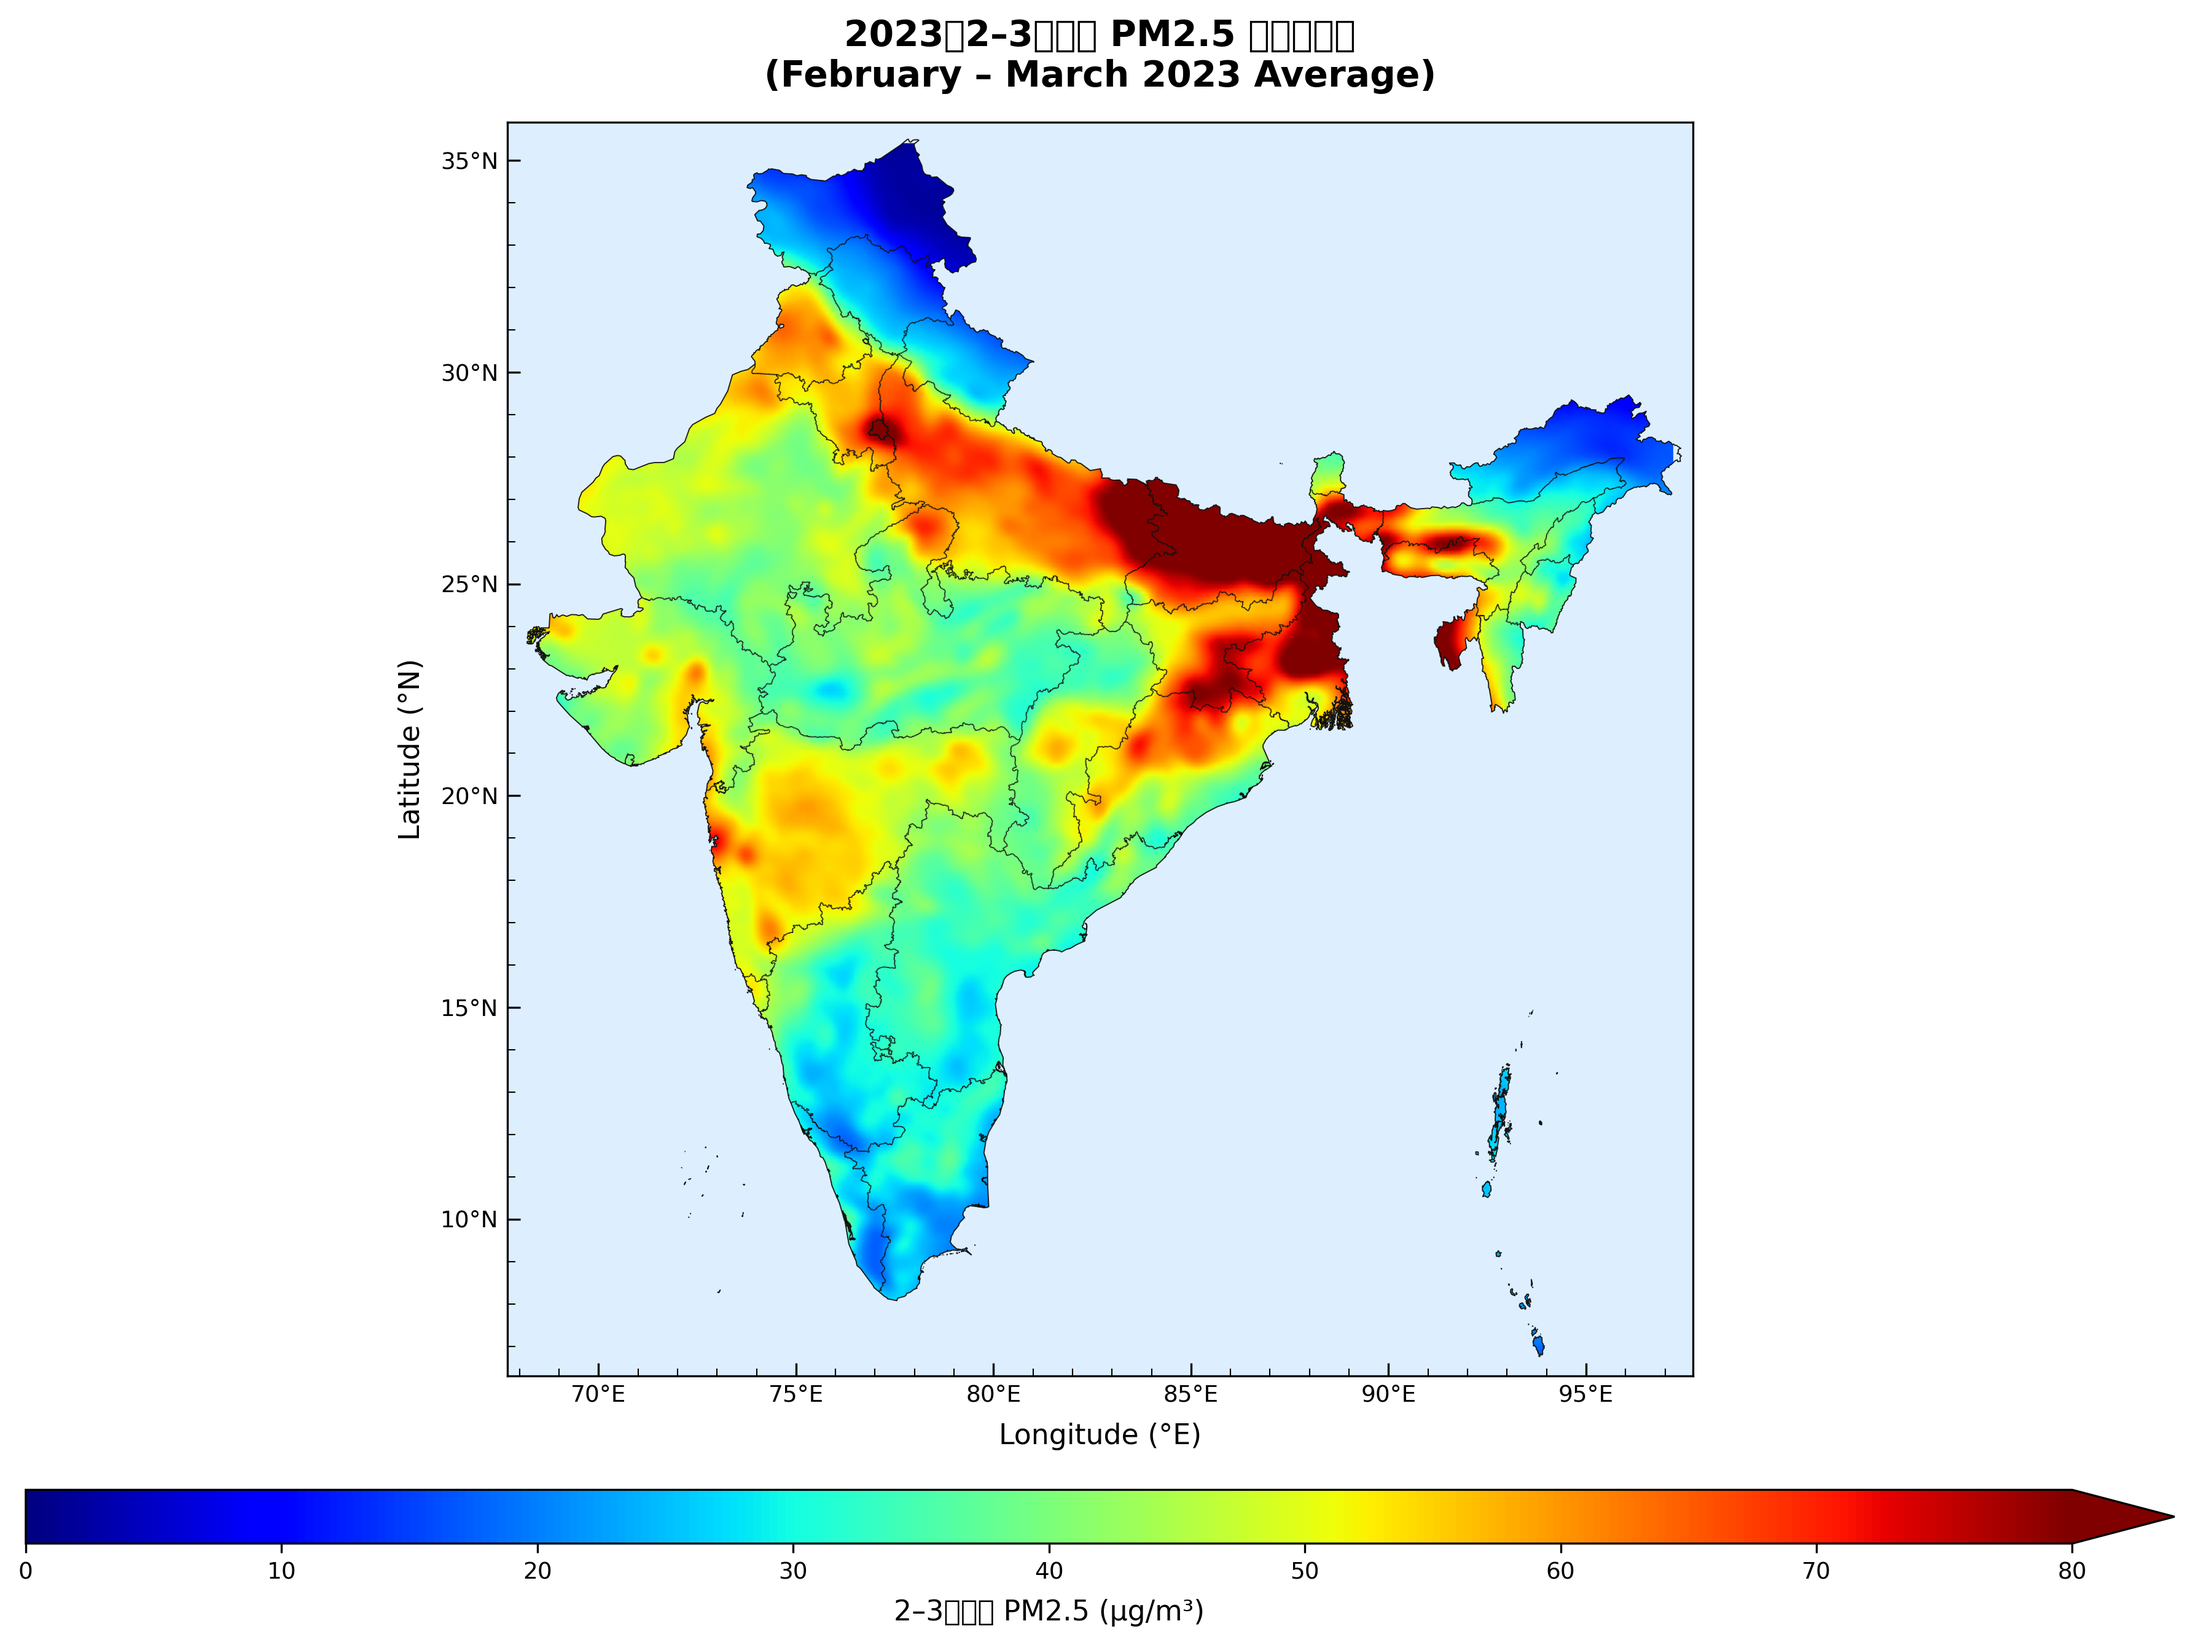
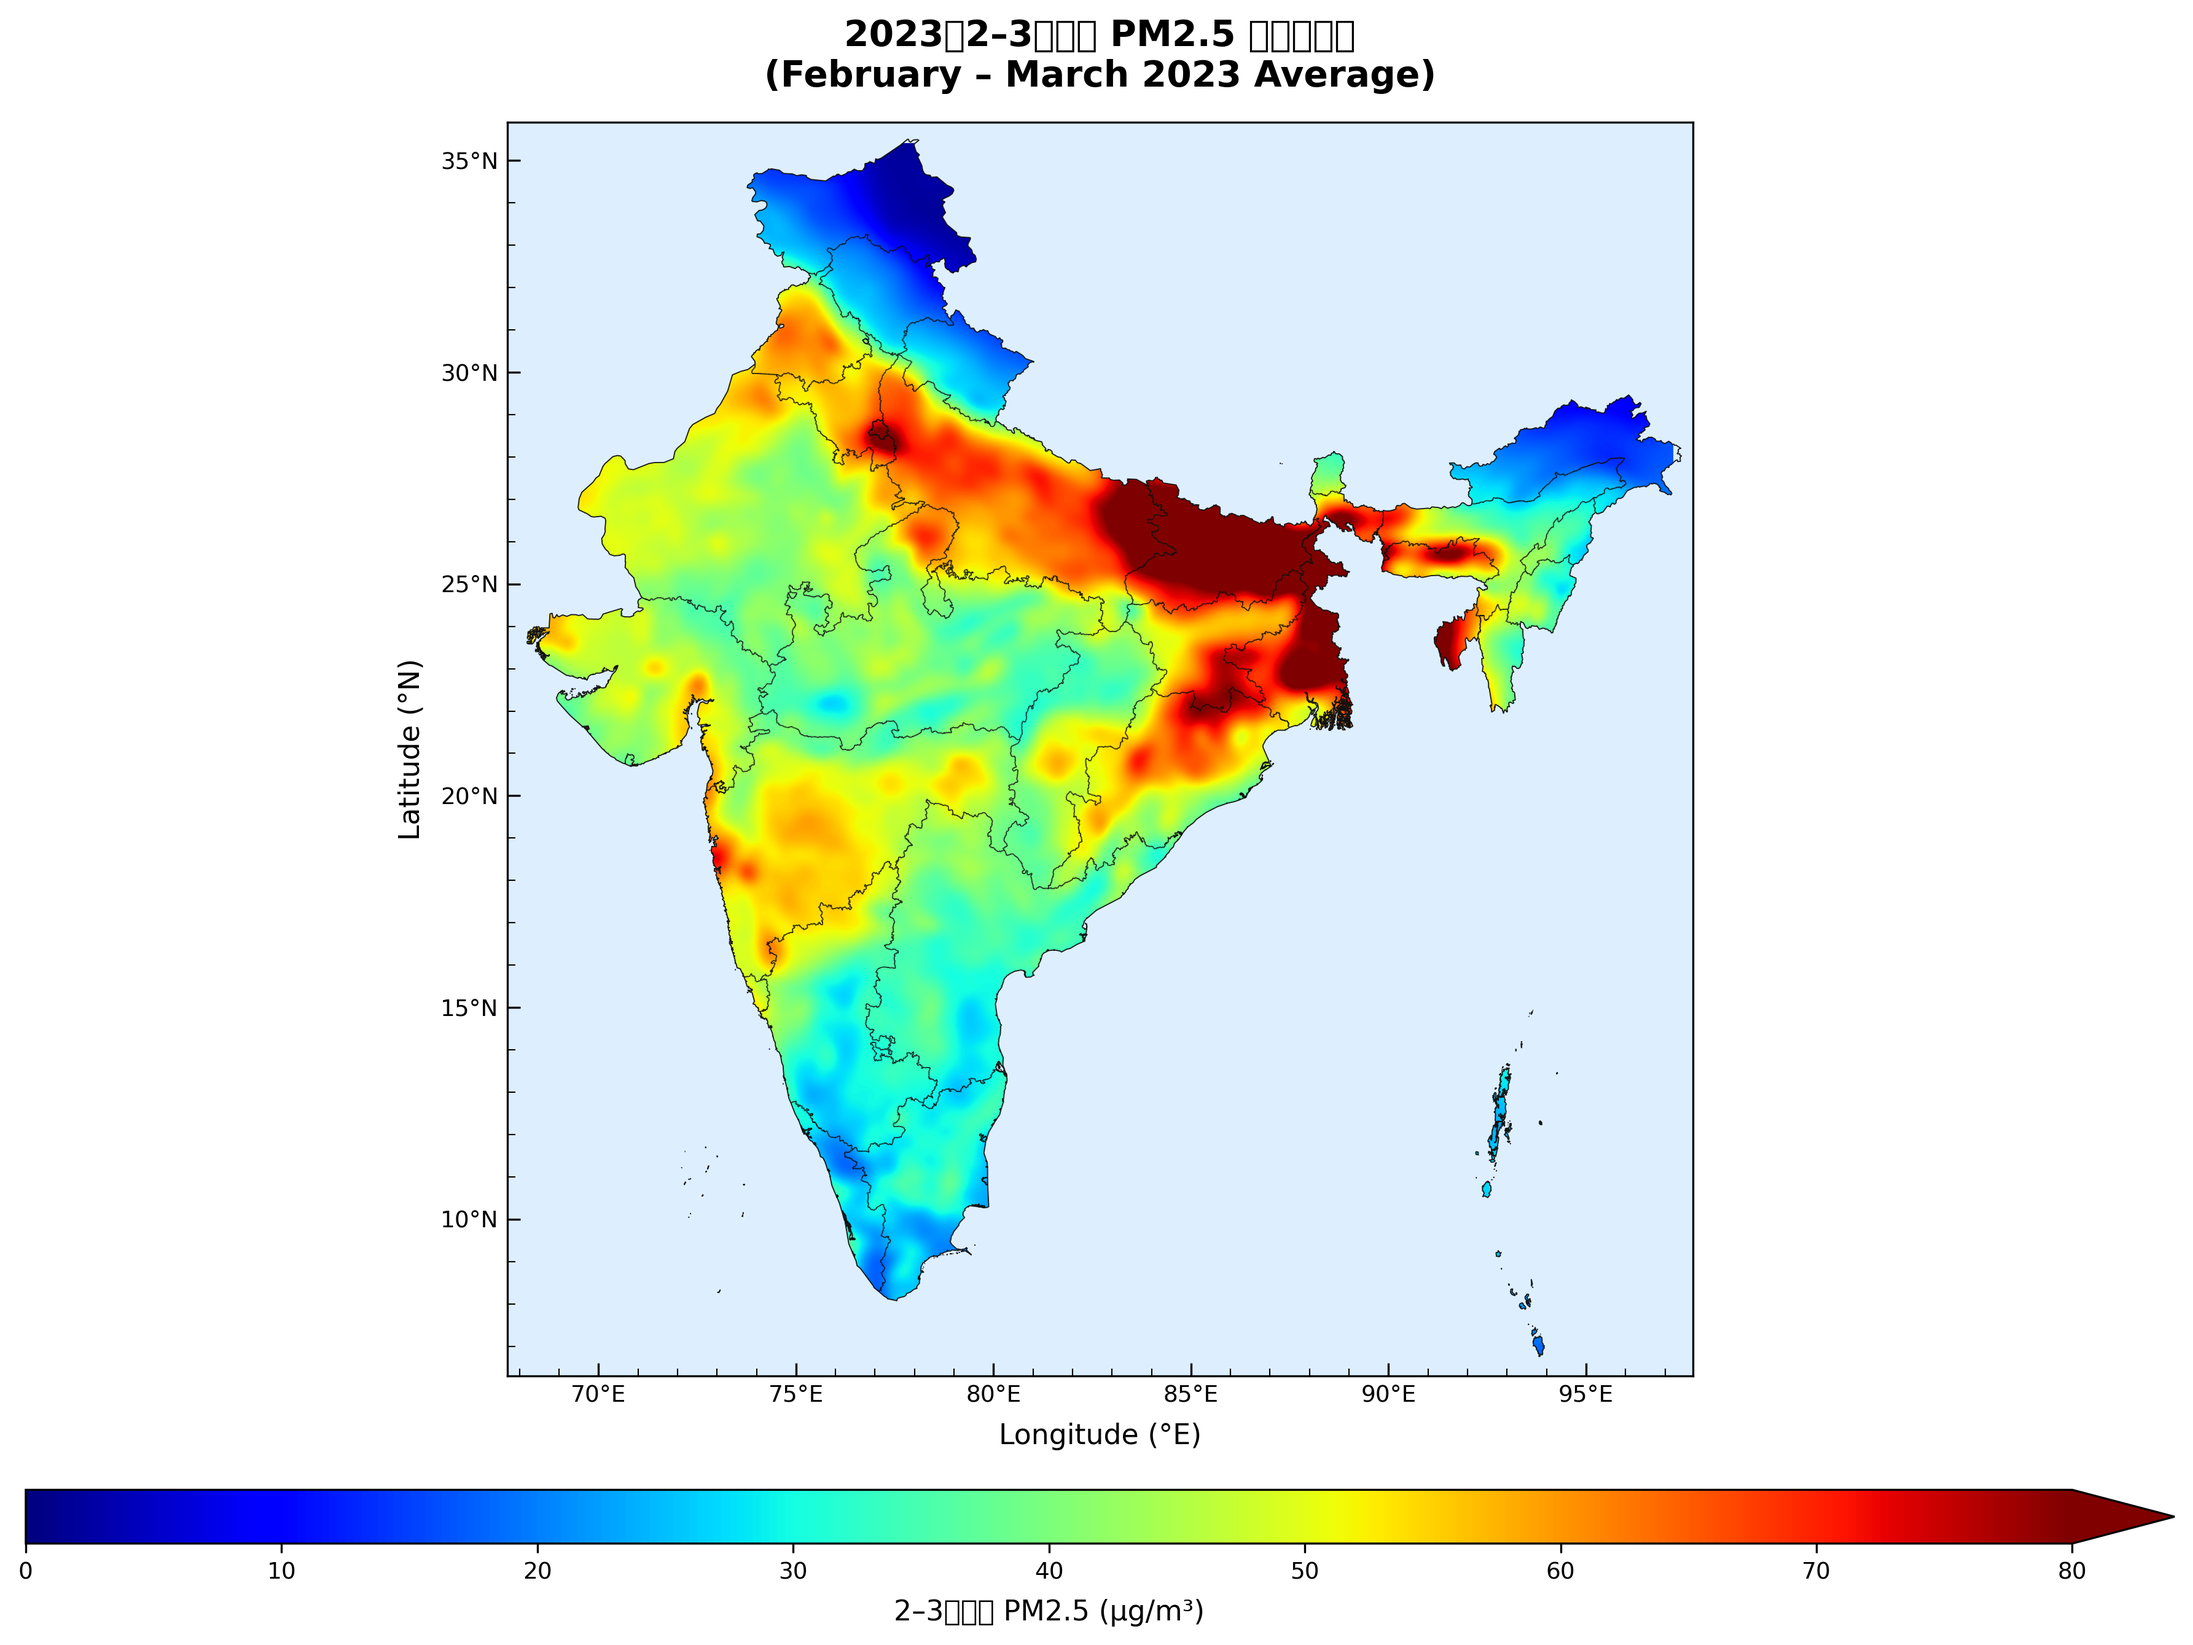
Smooth coastline edge by using bicubic clipped heatmap
Agent-Logs-Url: https://github.com/hhhhccccc/pm25-india-visualization/sessions/e226ebe3-848c-4e10-99e5-c2694bef0d97

Changed region(s): [[0.2487, 0.186, 0.6218, 0.7748], [0.5908, 0.2789, 0.7462, 0.4339], [0.342, 0.155, 0.3731, 0.186]]

diff --git a/plot_pm25.py b/plot_pm25.py
@@ -236,10 +236,14 @@ fig.patch.set_facecolor("white")
 ax.set_facecolor("#ddeeff")          # light ocean colour
 
 # --- PM2.5 heatmap ---
-mesh = ax.pcolormesh(
-    LON2, LAT2, pm25_plot,
+mesh = ax.imshow(
+    pm25_plot,
+    origin="lower",
+    extent=[lon.min(), lon.max(), lat.min(), lat.max()],
     cmap=cmap, norm=norm,
-    shading="gouraud", zorder=2
+    interpolation="bicubic",
+    zorder=2,
+    aspect="auto",
 )
 if country_geom is not None:
     country_path = _geometry_to_path(country_geom)
